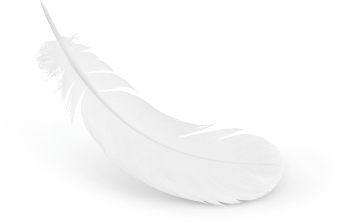
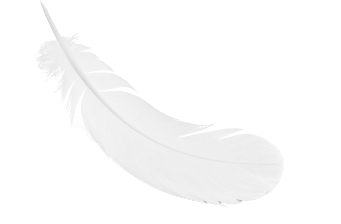
added animating shadow to feather

Changed region(s): [[0.3226, 0.75, 0.8211, 0.9375]]

diff --git a/src/app/app.component.css b/src/app/app.component.css
@@ -14,14 +14,11 @@
   animation: fadeIn 3s forwards;
 }
 
-.fadeOut {
-  animation: fadeOut 3s forwards;
-}
 .feather-container {
   width: 300px;
 }
 
-.feather{
+.feather {
   transform: rotate(-30deg);
 }
 
@@ -29,6 +26,10 @@
   position: relative;
   -webkit-animation: levitate-animation 8s 1; /* Safari 4.0 - 8.0 */
   animation: levitate-animation 8s 1;
+}
+
+.stationary {
+  filter: drop-shadow(-3px 20px 10px rgba(27, 26, 26, 0.15));
 }
 
 .button-group {
@@ -93,12 +94,15 @@
 /* Safari 4.0 - 8.0 */
 @-webkit-keyframes levitate-animation {
   0% {
+    filter: drop-shadow(-3px 20px 10px rgba(27, 26, 26, 0.15));
     bottom: 0px;
   }
   80% {
+    filter: drop-shadow(-100px 120px 14px rgba(27, 26, 26, 0.02));
     bottom: 150px;
   }
   100% {
+    filter: drop-shadow(-3px 20px 10px rgba(27, 26, 26, 0.15));
     bottom: 0px;
   }
 }
@@ -106,12 +110,15 @@
 /* Standard syntax */
 @keyframes levitate-animation {
   0% {
+    filter: drop-shadow(-3px 20px 10px rgba(27, 26, 26, 0.15));
     bottom: 0px;
   }
   80% {
+    filter: drop-shadow(-100px 120px 14px rgba(27, 26, 26, 0.02));
     bottom: 150px;
   }
   100% {
+    filter: drop-shadow(-3px 20px 10px rgba(27, 26, 26, 0.15));
     bottom: 0px;
   }
 }
@@ -122,14 +129,5 @@
   }
   to {
     opacity: 1;
-  }
-}
-
-@keyframes fadeOut {
-  from {
-    opacity: 1;
-  }
-  to {
-    opacity: 0;
   }
 }

diff --git a/src/app/app.component.html b/src/app/app.component.html
@@ -1,12 +1,12 @@
 <div class="main">
-  <h1 class="title" [ngClass]="{ fadeOut: !isRecording, fadeIn: isRecording }">
+  <h1 class="title" [ngClass]="{ fadeIn: isRecording }">
     Say the levitation charm
   </h1>
   <div class="feather-container">
     <img
       class="feather"
       src="../assets/feather.png"
-      [ngClass]="{ levitate: correctSpell }"
+      [ngClass]="{ levitate: correctSpell, stationary: !correctSpell }"
     />
   </div>
   <div class="button-group">
